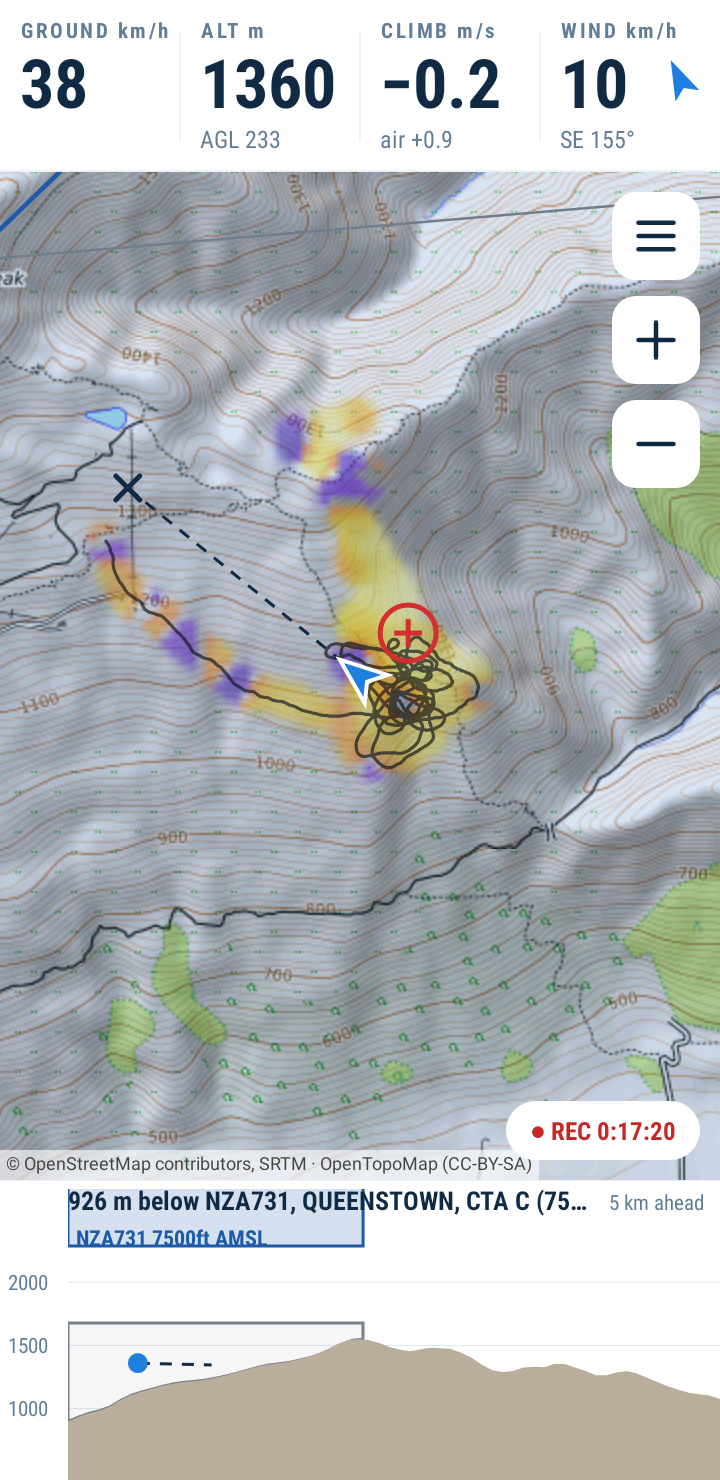
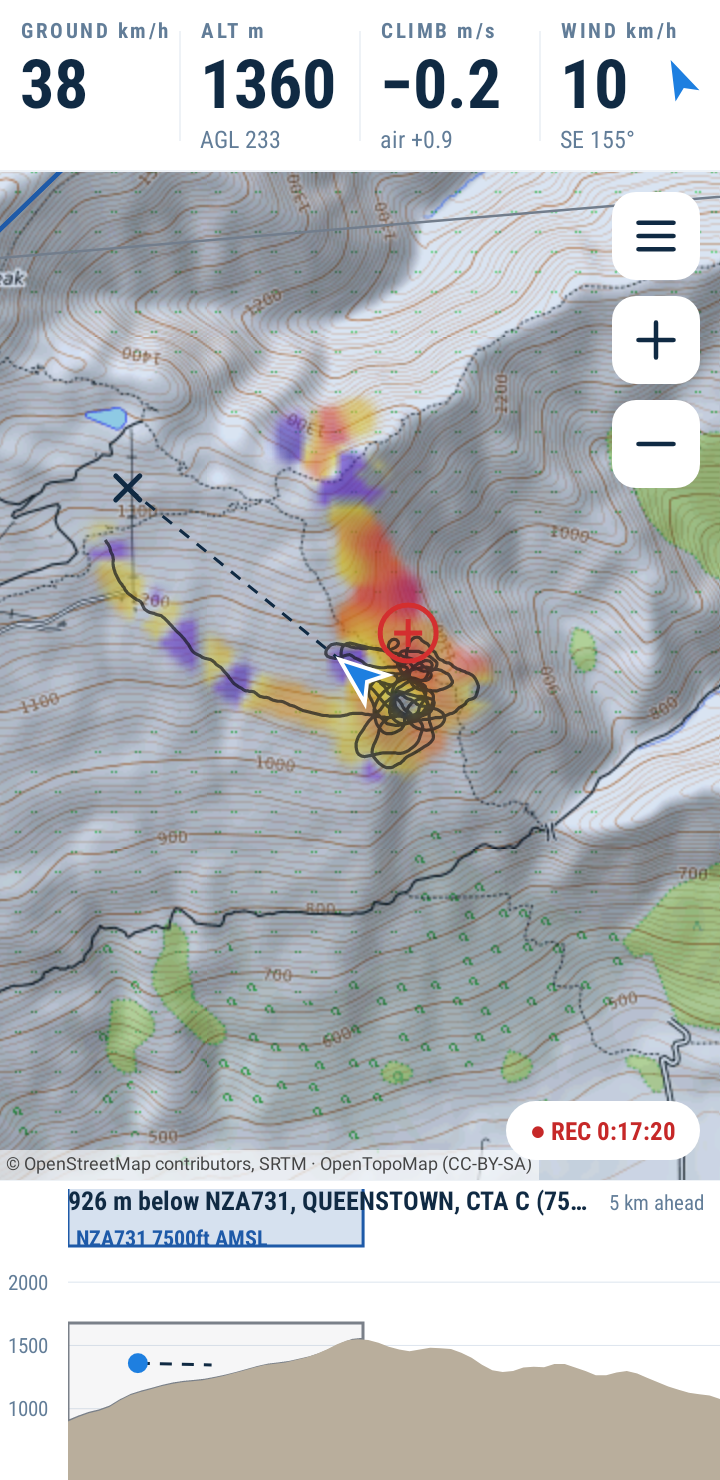
cloudbase: six-colour lift ramp (pale yellow to deep crimson), violet sink ramp kept
Claude-Session: https://claude.ai/code/session_01WPq8MfriARqNX7o4hLC8bK

diff --git a/app/src/test/java/app/cloudbase/ui/HeatGridTest.kt b/app/src/test/java/app/cloudbase/ui/HeatGridTest.kt
@@ -6,157 +6,154 @@ import org.junit.Test
 import kotlin.math.abs
 
 class HeatGridTest {
-    private val scale = 2.0f
     private fun alpha(c: Int) = c ushr 24
     private fun rgb(c: Int) = c and 0xFFFFFF
+    private fun r(c: Int) = c shr 16 and 0xFF
+    private fun g(c: Int) = c shr 8 and 0xFF
+    private fun b(c: Int) = c and 0xFF
+    private fun col(v: Float) = HeatGrid.color(v, 1f)
 
     /** Perceived brightness, 0..255 (Rec. 601 luma). */
-    private fun luma(c: Int) = 0.299 * (c shr 16 and 0xFF) + 0.587 * (c shr 8 and 0xFF) + 0.114 * (c and 0xFF)
+    private fun luma(c: Int) = 0.299 * r(c) + 0.587 * g(c) + 0.114 * b(c)
 
     /** How far apart two colours are, in RGB. */
-    private fun distance(a: Int, b: Int): Double {
-        val dr = (a shr 16 and 0xFF) - (b shr 16 and 0xFF)
-        val dg = (a shr 8 and 0xFF) - (b shr 8 and 0xFF)
-        val db = (a and 0xFF) - (b and 0xFF)
+    private fun distance(x: Int, y: Int): Double {
+        val dr = r(x) - r(y); val dg = g(x) - g(y); val db = b(x) - b(y)
         return Math.sqrt((dr * dr + dg * dg + db * db).toDouble())
     }
 
-    @Test fun brightnessRisesSteadilyFromSinkToClimb() {
-        var last = -1.0
-        var v = -6f
-        while (v <= 6f) {
-            if (abs(v) > HeatGrid.DEAD_BAND) {
-                val l = luma(HeatGrid.color(v, scale, 1f))
-                assertTrue("brightness at $v m/s ($l) must not be below the value before ($last)", l >= last - 0.5)
-                last = l
-            }
+    @Test fun liftIsSpreadOverManyColoursAcrossTheRangeThatMatters() {
+        // Each step up in climb, from weak to very strong, is a clearly different colour...
+        val steps = listOf(0.3f, 0.7f, 1.5f, 2.5f, 4f, 7f)
+        for (i in 0 until steps.size - 1) {
+            val d = distance(col(steps[i]), col(steps[i + 1]))
+            assertTrue("%.1f and %.1f m/s differ by only %.0f".format(steps[i], steps[i + 1], d), d > 55)
+        }
+        // ...and so is each half metre through the ordinary thermal range.
+        var v = 0.5f
+        while (v < 3.5f) {
+            val d = distance(col(v), col(v + 0.5f))
+            assertTrue("%.1f and %.1f m/s differ by only %.0f".format(v, v + 0.5f, d), d > 25)
+            v += 0.5f
+        }
+        // The named colours land where the comment says they do.
+        val yellow = col(0.7f); val orange = col(1.5f); val red = col(2.5f); val crimson = col(4f); val deep = col(9f)
+        assertTrue("0.7 m/s is yellow: %06X".format(rgb(yellow)), r(yellow) > 240 && g(yellow) > 190 && b(yellow) < 90)
+        assertTrue("1.5 m/s is orange: %06X".format(rgb(orange)), r(orange) > 240 && g(orange) in 110..190 && b(orange) < 40)
+        assertTrue("2.5 m/s is red: %06X".format(rgb(red)), r(red) > 230 && g(red) < 100 && b(red) < 40)
+        assertTrue("4 m/s is crimson: %06X".format(rgb(crimson)), r(crimson) in 190..230 && g(crimson) < 30)
+        assertTrue("very strong is deep crimson: %06X".format(rgb(deep)), r(deep) in 130..170 && g(deep) < 15)
+        // Stronger lift is deeper, so the best lift stands out most against a pale map.
+        var last = 256.0
+        v = 0.3f
+        while (v <= 8f) { val l = luma(col(v)); assertTrue("brightness at $v", l <= last + 0.5); last = l; v += 0.1f }
+    }
+
+    @Test fun sinkRunsFromVioletToNearBlack() {
+        var last = 256.0
+        var v = 0.3f
+        while (v <= 6f) { val l = luma(col(-v)); assertTrue("brightness at -$v", l <= last + 0.5); last = l; v += 0.1f }
+        assertTrue(luma(col(-5f)) < 45)
+        // Sink uses its range up sooner than lift: it only needs to say "bad" and "worse".
+        assertTrue(HeatGrid.strength(-2f) > HeatGrid.strength(2f) + 0.2f)
+        assertEquals(0.76f, HeatGrid.strength(-HeatGrid.SINK_SCALE), 0.01f)
+        assertEquals(0.76f, HeatGrid.strength(HeatGrid.LIFT_SCALE), 0.01f)
+        assertTrue(HeatGrid.strength(50f) <= 1f && HeatGrid.strength(-50f) <= 1f)
+    }
+
+    @Test fun upAndDownAreUnmistakablyDifferentAtEveryStrength() {
+        assertTrue(distance(col(0.4f), col(-0.4f)) > 200)
+        var v = 0.25f
+        while (v <= 8f) {
+            val up = col(v); val down = col(-v)
+            // Lift is the yellow/orange/red family (red well above blue); sink the violet/indigo family (blue above red).
+            assertTrue("lift at $v: %06X".format(rgb(up)), r(up) > b(up) + 60)
+            assertTrue("sink at $v: %06X".format(rgb(down)), b(down) > r(down) + 20)
+            assertTrue("lift $v vs sink $v", distance(up, down) > 120)
             v += 0.25f
         }
-        // Strong sink is dark, strong climb is bright.
-        assertTrue(luma(HeatGrid.color(-5f, scale, 1f)) < 45)
-        assertTrue(luma(HeatGrid.color(5f, scale, 1f)) > 190)
     }
 
     @Test fun neverUsesTheMapsGreens() {
-        // The map underneath is greens and grey-blues; nothing on the scale may be green. (The
-        // bright end is yellow, where green and red are both high: that is not green.)
-        var v = -6f
-        while (v <= 6f) {
-            val c = HeatGrid.color(v, scale, 1f)
-            if (c != 0) {
-                val r = c shr 16 and 0xFF; val g = c shr 8 and 0xFF; val b = c and 0xFF
-                assertTrue("green at $v m/s: %06X".format(rgb(c)), !(g > r + 25 && g > b + 25))
-            }
+        // The map underneath is greens and grey-blues. (Yellow has green and red both high: not green.)
+        var v = -8f
+        while (v <= 8f) {
+            val c = col(v)
+            if (c != 0) assertTrue("green at $v m/s: %06X".format(rgb(c)), !(g(c) > r(c) + 25 && g(c) > b(c) + 25))
             v += 0.1f
         }
     }
 
-    @Test fun mostOfTheScaleIsSpentOnOrdinaryClimbRates() {
-        // Sigmoid: half a metre per second is a much bigger colour step near zero than out at the extremes.
-        val near = distance(HeatGrid.color(0.5f, scale, 1f), HeatGrid.color(1.0f, scale, 1f))
-        val far = distance(HeatGrid.color(4.0f, scale, 1f), HeatGrid.color(4.5f, scale, 1f))
-        assertTrue("near $near, far $far", near > 5 * far)
-        // Every half-step across the ordinary range is a clearly different colour.
-        var v = -2.5f
-        while (v < 2.5f) {
-            if (abs(v) > HeatGrid.DEAD_BAND && abs(v + 0.5f) > HeatGrid.DEAD_BAND) {
-                val d = distance(HeatGrid.color(v, scale, 1f), HeatGrid.color(v + 0.5f, scale, 1f))
-                assertTrue("%.1f to %.1f m/s differ by only %.0f".format(v, v + 0.5f, d), d > 18)
-            }
-            v += 0.5f
-        }
-        assertEquals(0f, HeatGrid.strength(0f, scale), 1e-6f)
-        assertEquals(0.76f, HeatGrid.strength(2.0f, scale), 0.01f)
-        assertEquals(HeatGrid.strength(1.3f, scale), HeatGrid.strength(-1.3f, scale), 1e-6f)
-        assertTrue(HeatGrid.strength(50f, scale) <= 1f)
-    }
-
-    @Test fun upAndDownAreUnmistakablyDifferentEvenWhenWeak() {
-        // The first thing to read is the sign. Just either side of still air the two colours
-        // must be far apart, and each side must stay in its own family at every strength.
-        val weakLift = HeatGrid.color(0.4f, scale, 1f)
-        val weakSink = HeatGrid.color(-0.4f, scale, 1f)
-        assertTrue("weak lift and weak sink differ by ${distance(weakLift, weakSink)}", distance(weakLift, weakSink) > 200)
-        var v = 0.25f
-        while (v <= 6f) {
-            val up = HeatGrid.color(v, scale, 1f)
-            val down = HeatGrid.color(-v, scale, 1f)
-            // Lift is the orange/yellow family (red well above blue); sink the violet/indigo family (blue above red).
-            assertTrue("lift at $v: %06X".format(rgb(up)), (up shr 16 and 0xFF) > (up and 0xFF) + 60)
-            assertTrue("sink at $v: %06X".format(rgb(down)), (down and 0xFF) > (down shr 16 and 0xFF) + 20)
-            v += 0.25f
-        }
-    }
-
     @Test fun stillAirIsNotDrawnAndOpacityIsCoverageOnly() {
-        assertEquals(0, HeatGrid.color(0.1f, scale, 1f))
-        assertEquals(0, HeatGrid.color(-0.15f, scale, 1f))
+        assertEquals(0, col(0.1f))
+        assertEquals(0, col(-0.15f))
         // Weak and strong air are equally opaque: the colour carries the strength.
-        assertEquals(HeatGrid.ALPHA, alpha(HeatGrid.color(0.4f, scale, 1f)))
-        assertEquals(HeatGrid.ALPHA, alpha(HeatGrid.color(4f, scale, 1f)))
-        assertTrue(alpha(HeatGrid.color(2f, scale, 0.3f)) < HeatGrid.ALPHA / 2)
+        assertEquals(HeatGrid.ALPHA, alpha(col(0.4f)))
+        assertEquals(HeatGrid.ALPHA, alpha(col(4f)))
+        assertTrue(alpha(HeatGrid.color(2f, 0.3f)) < HeatGrid.ALPHA / 2)
     }
 
     @Test fun oneCellBecomesASoftBlob() {
-        val g = HeatGrid(16)
-        g.clear()
-        g.splat(8, 8, 2f, 1f)
-        g.render(scale)
-        val centre = alpha(g.pixels[8 * 16 + 8])
-        val next = alpha(g.pixels[8 * 16 + 9])
-        val edge = alpha(g.pixels[8 * 16 + 10])
+        val grid = HeatGrid(16)
+        grid.clear()
+        grid.splat(8, 8, 2f, 1f)
+        grid.render()
+        val centre = alpha(grid.pixels[8 * 16 + 8])
+        val next = alpha(grid.pixels[8 * 16 + 9])
+        val edge = alpha(grid.pixels[8 * 16 + 10])
         assertEquals(HeatGrid.ALPHA, centre)
         assertTrue("fades outwards: $centre > $next > $edge > 0", centre > next && next > edge && edge > 0)
-        assertEquals(0, g.pixels[8 * 16 + 11])
+        assertEquals(0, grid.pixels[8 * 16 + 11])
         // Same value everywhere it reaches: only the opacity falls off.
-        assertEquals(rgb(g.pixels[8 * 16 + 8]), rgb(g.pixels[8 * 16 + 9]))
+        assertEquals(rgb(grid.pixels[8 * 16 + 8]), rgb(grid.pixels[8 * 16 + 9]))
         // Symmetric.
-        assertEquals(g.pixels[8 * 16 + 9], g.pixels[8 * 16 + 7])
-        assertEquals(g.pixels[8 * 16 + 9], g.pixels[9 * 16 + 8])
+        assertEquals(grid.pixels[8 * 16 + 9], grid.pixels[8 * 16 + 7])
+        assertEquals(grid.pixels[8 * 16 + 9], grid.pixels[9 * 16 + 8])
     }
 
     @Test fun neighbouringLiftAndSinkBlendThroughNothing() {
-        val g = HeatGrid(16)
-        g.clear()
-        g.splat(6, 8, 2f, 1f)
-        g.splat(8, 8, -2f, 1f)
-        g.render(scale)
+        val grid = HeatGrid(16)
+        grid.clear()
+        grid.splat(6, 8, 2f, 1f)
+        grid.splat(8, 8, -2f, 1f)
+        grid.render()
         // Exactly between equal lift and sink the average is zero: transparent.
-        assertEquals(0, g.pixels[8 * 16 + 7])
-        assertTrue(luma(g.pixels[8 * 16 + 6]) > luma(g.pixels[8 * 16 + 8]) + 60)
+        assertEquals(0, grid.pixels[8 * 16 + 7])
+        assertTrue(r(grid.pixels[8 * 16 + 6]) > b(grid.pixels[8 * 16 + 6]))
+        assertTrue(b(grid.pixels[8 * 16 + 8]) > r(grid.pixels[8 * 16 + 8]))
     }
 
     @Test fun oldCellsCountForLess() {
-        val g = HeatGrid(16)
-        g.clear()
-        g.splat(8, 8, 2f, 0.3f)
-        g.render(scale)
-        val faded = alpha(g.pixels[8 * 16 + 8])
+        val grid = HeatGrid(16)
+        grid.clear()
+        grid.splat(8, 8, 2f, 0.3f)
+        grid.render()
+        val faded = alpha(grid.pixels[8 * 16 + 8])
         assertTrue(faded > 0 && faded < HeatGrid.ALPHA)
         // A fresh sample on the same spot outweighs an old one: the result is on the sink side.
-        g.splat(8, 8, -2f, 1f)
-        g.render(scale)
-        assertTrue(luma(g.pixels[8 * 16 + 8]) < luma(HeatGrid.color(0.3f, scale, 1f)))
+        grid.splat(8, 8, -2f, 1f)
+        grid.render()
+        assertTrue(b(grid.pixels[8 * 16 + 8]) > r(grid.pixels[8 * 16 + 8]))
     }
 
     @Test fun aDensePatchOfOldSamplesIsAsFadedAsOneOldSample() {
         val lone = HeatGrid(16)
-        lone.clear(); lone.splat(8, 8, 2f, 0.5f); lone.render(scale)
+        lone.clear(); lone.splat(8, 8, 2f, 0.5f); lone.render()
         val dense = HeatGrid(16)
         dense.clear()
         for (y in 4..12) for (x in 4..12) dense.splat(x, y, 2f, 0.5f)
-        dense.render(scale)
+        dense.render()
         assertEquals(alpha(lone.pixels[8 * 16 + 8]), alpha(dense.pixels[8 * 16 + 8]))
         assertEquals(HeatGrid.ALPHA / 2.0, alpha(dense.pixels[8 * 16 + 8]).toDouble(), 2.0)
     }
 
     @Test fun edgesAndClearAreSafe() {
-        val g = HeatGrid(8)
-        g.clear()
-        for (p in listOf(-5, -2, -1, 0, 7, 8, 9, 20)) { g.splat(p, p, 1f, 1f); g.splat(p, 3, 1f, 1f) }
-        g.render(scale)
-        g.clear()
-        g.render(scale)
-        assertTrue(g.pixels.all { it == 0 })
+        val grid = HeatGrid(8)
+        grid.clear()
+        for (p in listOf(-5, -2, -1, 0, 7, 8, 9, 20)) { grid.splat(p, p, 1f, 1f); grid.splat(p, 3, 1f, 1f) }
+        grid.render()
+        grid.clear()
+        grid.render()
+        assertTrue(grid.pixels.all { it == 0 })
     }
 }

diff --git a/app/src/main/java/app/cloudbase/ui/HeatGrid.kt b/app/src/main/java/app/cloudbase/ui/HeatGrid.kt
@@ -46,8 +46,8 @@ class HeatGrid(val n: Int) {
         }
     }
 
-    /** Fill [pixels]. [scale] sets how quickly the colours run out towards the ends: see [position]. */
-    fun render(scale: Float) {
+    /** Fill [pixels]. */
+    fun render() {
         for (i in pixels.indices) {
             val w = weight[i]
             if (w < 1e-5f) { pixels[i] = 0; continue }
@@ -56,7 +56,7 @@ class HeatGrid(val n: Int) {
             // Opacity is coverage times the average say of what landed here, so a whole patch of
             // old samples is as faded as a single old sample, however densely it was flown.
             val coverage = min(1f, cover[i] / CENTRE_WEIGHT)
-            pixels[i] = color(v, scale, coverage * (w / cover[i]))
+            pixels[i] = color(v, coverage * (w / cover[i]))
         }
     }
 
@@ -70,31 +70,39 @@ class HeatGrid(val n: Int) {
         const val ALPHA = 225
 
         /**
-         * Two colour families, so whether the air is going up or down is the first thing you see,
-         * and brightness that rises all the way from strong sink to strong climb, so the order
-         * survives glare and colour-blindness:
-         *
-         *   strong sink  near-black indigo > indigo > violet   |gap|   red-orange > amber > yellow > pale yellow  strong climb
-         *
-         * Neither family has green or grey-blue in it, which are the colours of the map underneath.
+         * Two colour families, so whether the air is going up or down is the first thing you see.
+         * Neither has green or grey-blue in it, which are the colours of the map underneath.
          * Each ramp is listed weakest to strongest.
+         *
+         * Sink: violet through indigo to near-black.
+         *
+         * Lift, the side a pilot actually reads, gets more colours and more of them spent across
+         * the range that matters: pale yellow and yellow (air rising, but not yet faster than the
+         * glider sinks), orange (about where you start to climb), red, crimson, deep crimson.
+         * Stronger is hotter, deeper and more intense: that is the shade the eye wants to turn
+         * towards, and it is also the most visible thing on a pale map.
          */
         private val SINK = intArrayOf(0x9A35E8, 0x6A1FD0, 0x3F14A8, 0x1E0B6B, 0x0B0433)
-        private val LIFT = intArrayOf(0xFF4E1A, 0xFF8A00, 0xFFC400, 0xFFE83B, 0xFFF9B8)
+        private val LIFT = intArrayOf(0xFFF3A0, 0xFFD600, 0xFF9800, 0xFF3D00, 0xD50032, 0x8E0045)
+
+        /** Sigmoid scales, m/s: 76 % of a ramp is used by this much. Sink saturates early; lift is spread wide. */
+        const val SINK_SCALE = 2.0f
+        const val LIFT_SCALE = 3.5f
 
         /**
-         * How far along its ramp a climb or sink value sits, 0..1. A sigmoid (tanh): most of the
-         * colour range is spent on ordinary values where telling them apart matters, and extreme
-         * values flatten out towards the end instead of all looking the same shade once past a
-         * hard limit. [scale] is the climb or sink at which 76 % of the ramp has been used.
+         * How far along its ramp a climb or sink value sits, 0..1. A sigmoid (tanh): the colour
+         * range is spent on ordinary values where telling them apart matters, and extreme values
+         * flatten out towards the end instead of all looking the same shade past a hard limit.
+         * With [LIFT_SCALE] the lift colours fall at roughly: yellow 0.7 m/s, orange 1.5, red 2.5,
+         * crimson 4, deep crimson beyond 6.
          */
-        fun strength(climb: Float, scale: Float): Float = tanh(abs(climb) / scale)
+        fun strength(climb: Float): Float = tanh(abs(climb) / if (climb > 0) LIFT_SCALE else SINK_SCALE)
 
         /** ARGB for a climb value. [coverage] 0..1 fades the edges of the mapped area and old samples. */
-        fun color(climb: Float, scale: Float, coverage: Float): Int {
+        fun color(climb: Float, coverage: Float): Int {
             if (abs(climb) <= DEAD_BAND || coverage <= 0f) return 0
             val ramp = if (climb > 0) LIFT else SINK
-            val pos = strength(climb, scale) * (ramp.size - 1)
+            val pos = strength(climb) * (ramp.size - 1)
             val k = min(pos.toInt(), ramp.size - 2)
             val f = pos - k
             val a = ramp[k]

diff --git a/app/src/main/java/app/cloudbase/ui/Overlays.kt b/app/src/main/java/app/cloudbase/ui/Overlays.kt
@@ -114,7 +114,8 @@ class AirspaceOverlay(context: Context) : MapView.Overlay {
 
 /**
  * The lift/sink heat map: a smooth cloud over the air that has been flown through, violet to
- * near-black where it was sinking and orange to pale yellow where it was rising.
+ * near-black where it was sinking, and pale yellow through orange and red to crimson where it
+ * was rising.
  *
  * Every thermal-map cell sits on one regular lattice (they all drift together), so the cells map
  * straight onto the pixels of a small bitmap, which [HeatGrid] smooths and the canvas scales up.
@@ -158,7 +159,7 @@ class ThermalOverlay(context: Context) : MapView.Overlay, ThermalMap.Visitor {
         pass = HISTORY
         history.forEach(s, w, n, e, now, this)
         if (!hasPhase) return
-        grid.render(SCALE_MS)
+        grid.render()
         bitmap.setPixels(grid.pixels, 0, SIZE, 0, 0, SIZE, SIZE)
 
         // Pixel (i, j) is the lattice point (cx - SIZE/2 + i, cy + SIZE/2 - j): north is up.
@@ -196,8 +197,6 @@ class ThermalOverlay(context: Context) : MapView.Overlay, ThermalMap.Visitor {
     }
 
     companion object {
-        /** Sigmoid scale of the colour ramps, m/s: about three quarters of a ramp is used by this much climb or sink. */
-        const val SCALE_MS = 2.0f
         /** How strongly old, ground-fixed samples are drawn next to fresh ones: faded, still legible. */
         const val HISTORY_STRENGTH = 0.6f
         const val SIZE = 96

diff --git a/README.md b/README.md
@@ -40,12 +40,11 @@ is carrying you on the map.
 **Map.** North-up topographic map. Airspace you must stay out of is outlined blue (controlled)
 or red (restricted, danger, military); informational airspace is thin grey. Press and hold on an
 airspace for its limits, or to ignore it. **Tap the map once to zoom in, twice to zoom out**
-(made for gloves; the + and − buttons and pinch work too). The coloured cloud is the **thermal map**. Rising air is the
-orange family, from red-orange (weak) through amber and yellow to pale yellow (strong); sinking
-air is the violet family, from violet (weak) through indigo to near-black (strong). So the
-family tells you up or down at a glance, and brighter always means better. Most of each ramp is
-spent on ordinary values (within about 2 m/s), and neither has green or grey-blue in it, so it
-does not blend into the map. It drifts downwind with the air; the red ring marks the best lift nearby. That drift only lasts
+(made for gloves; the + and − buttons and pinch work too). The coloured cloud is the **thermal map**. Rising air runs through
+six colours, hotter and deeper as it gets stronger: pale yellow, yellow (about 0.7 m/s), orange
+(1.5, roughly where you start to climb), red (2.5), crimson (4) and deep crimson. Sinking air
+is the violet family, from violet (weak) through indigo to near-black (strong). Neither has
+green or grey-blue in it, so it does not blend into the map. It drifts downwind with the air; the red ring marks the best lift nearby. That drift only lasts
 five minutes, long enough to centre the climb you are in. After that a patch is shown, faded,
 at the ground location where you met it, and stays there for the rest of the flight: thermals
 come off terrain, so the place is what is worth remembering. The map **zooms in close when you start circling** and back out when you leave.
